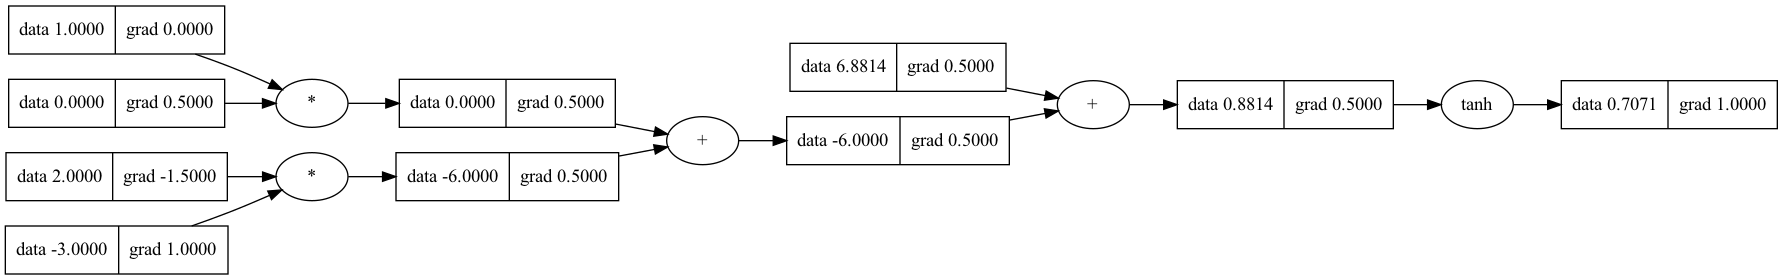
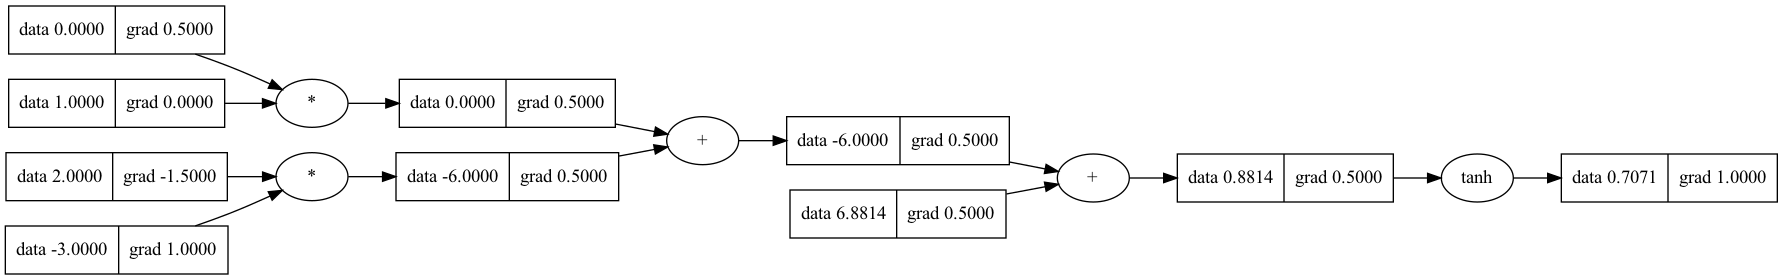
feat: auto grad

diff --git a/micrograd/value.py b/micrograd/value.py
@@ -42,3 +42,25 @@ class Value:
 
     def __repr__(self) -> str:
         return f"Value(data={self.data})"
+
+    def zero_grad(self) -> None:
+        def step(value: Value) -> None:
+            value.grad = 0
+            for child in value._prev:
+                step(child)
+        step(self)
+
+    def backward(self) -> None:
+        topo: list[Value] = []
+        visited: set[Value] = set()
+        def build_topo(value: Value):
+            if value in visited:
+                return
+            visited.add(value)
+            for child in value._prev:
+                build_topo(child)
+            topo.append(value)
+        build_topo(self)
+        self.grad = 1
+        for node in reversed(topo):
+            node._backward()

diff --git a/micrograd/main.py b/micrograd/main.py
@@ -52,13 +52,8 @@ def main():
     o = n.tanh()
 
     # back prop
-    o.grad = 1.0
-    o._backward()
-    n._backward()
-    b._backward()
-    x1w1_x2w2._backward()
-    x2w2._backward()
-    x1w1._backward()
+    o.zero_grad()
+    o.backward()
 
     # draw
     cg = draw_computation_graph(o)
